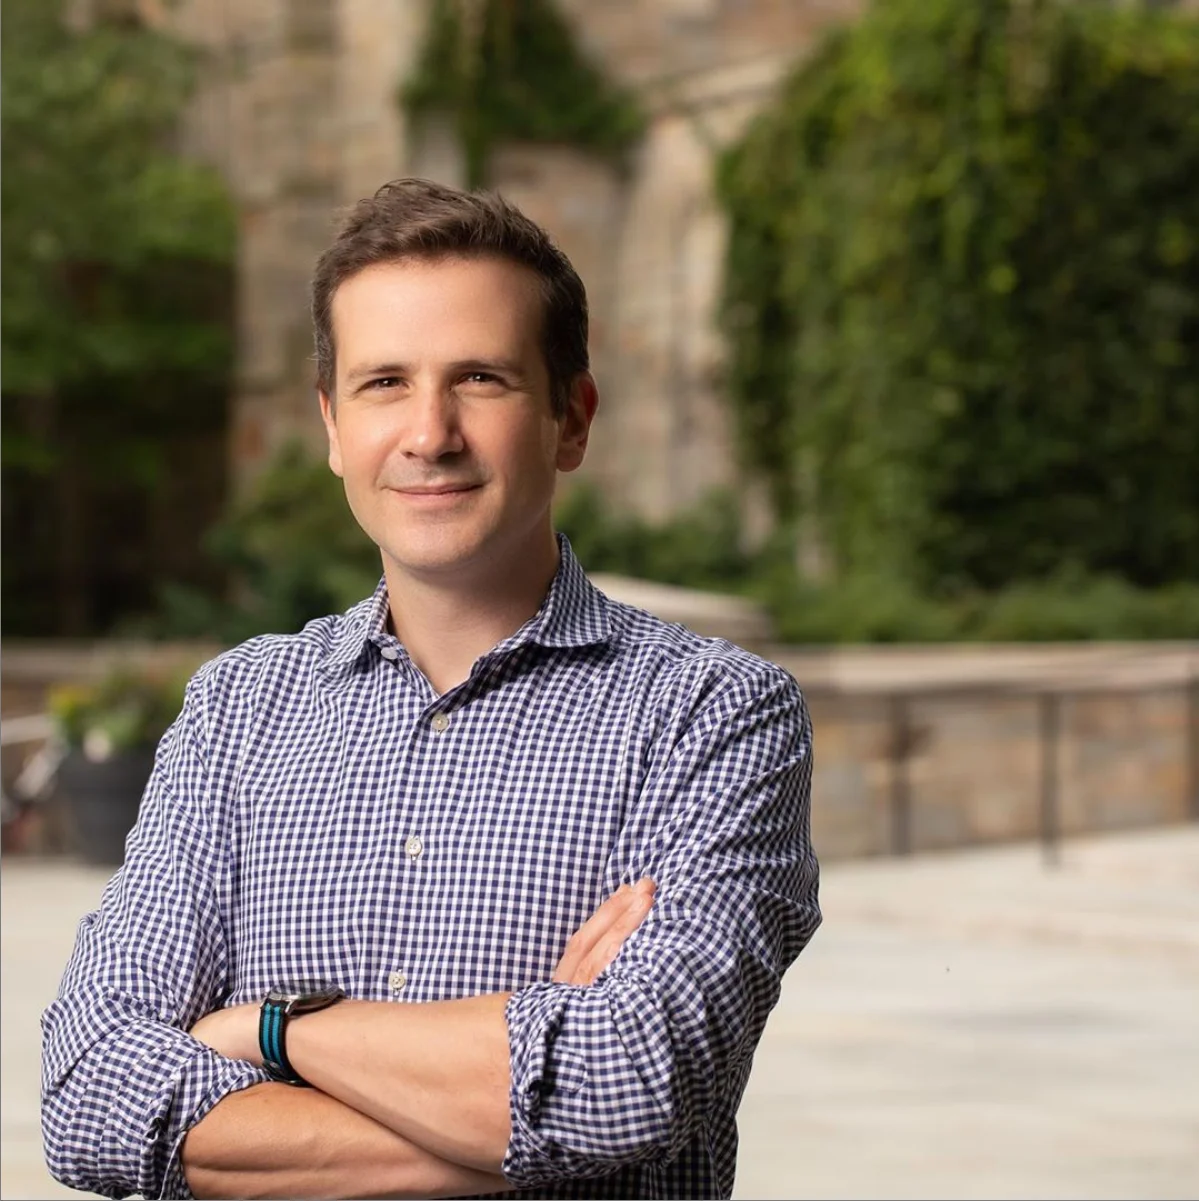
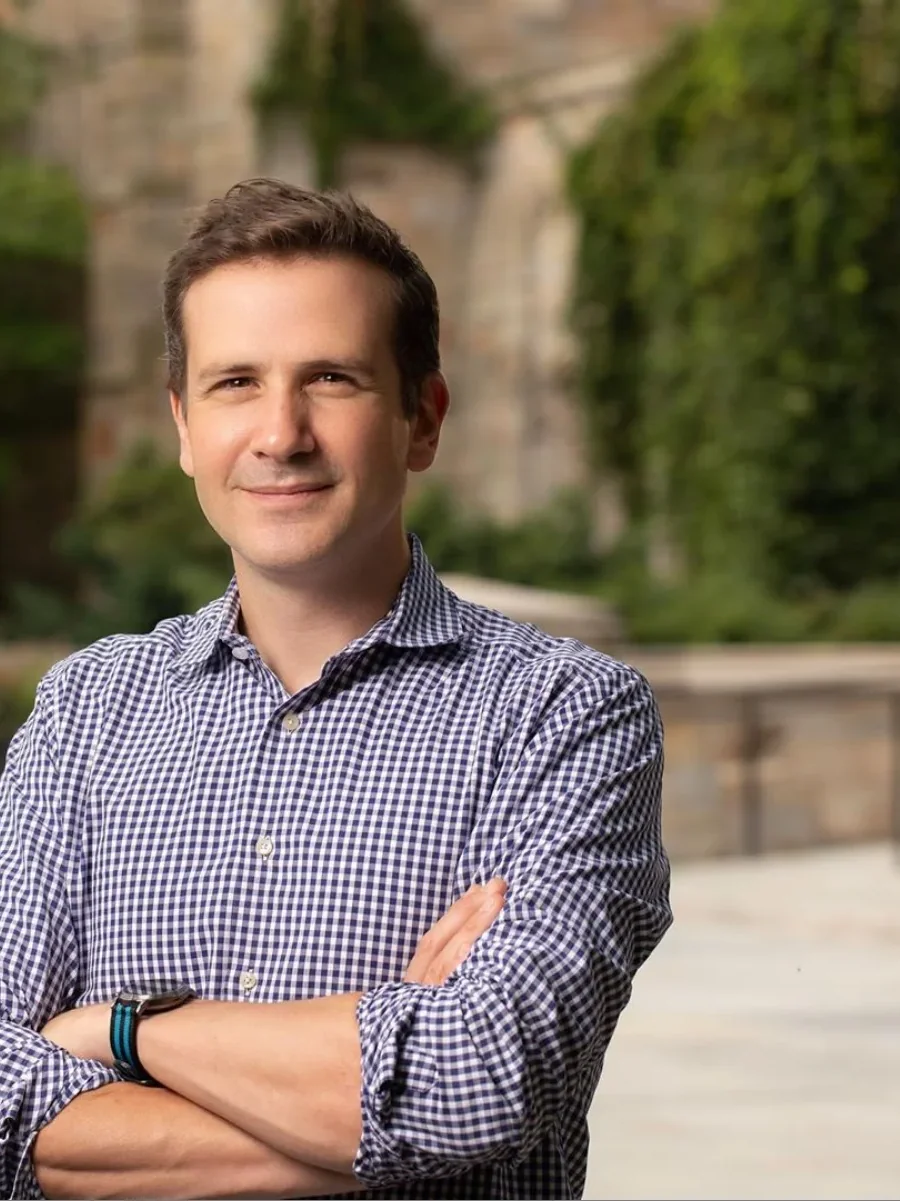
Fix hero photo crop: source was 1:1 square, CSS expects 3:4 portrait
Rather than change the hero's aspect-ratio CSS, crop the source webp
to 3:4 so object-fit: cover no longer clips the sides.

diff --git a/index.html b/index.html
@@ -163,7 +163,7 @@
       <div class="hero-photo">
         <img src="/images/perry-wilson.webp"
              alt="F. Perry Wilson, MD MSCE — nephrologist and science communicator at Yale University"
-             width="1199" height="1201"
+             width="900" height="1201"
              fetchpriority="high" decoding="async">
       </div>
     </div>
